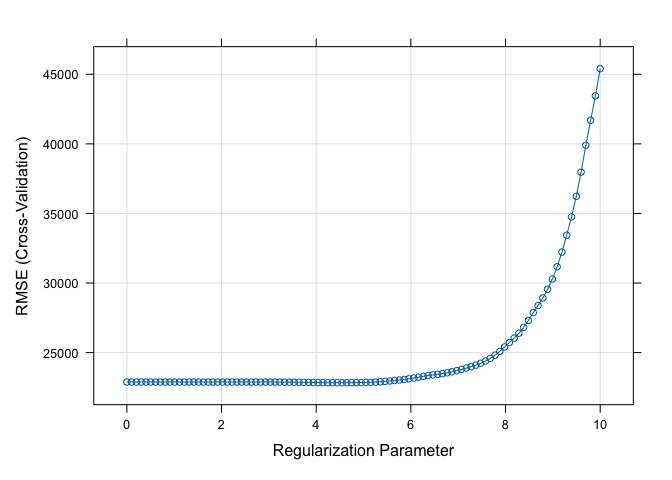
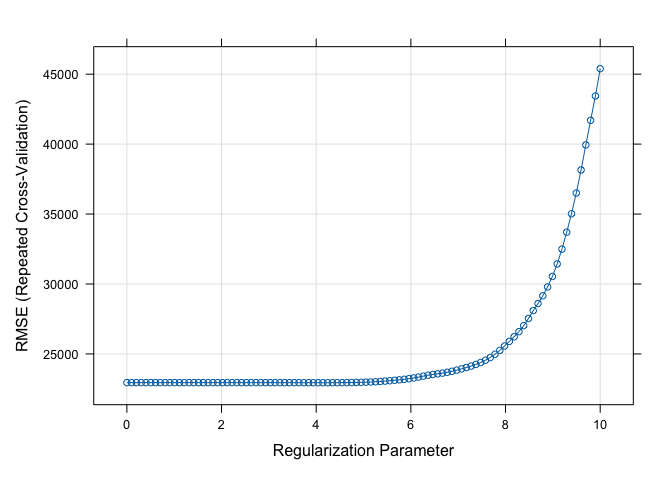
changed cv method from cv to repeated cv; partial least squares; model comparison

diff --git a/p8106_hw1.md b/p8106_hw1.md
@@ -28,8 +28,9 @@ I will use caret to fit a lasso model.
 ``` r
 # set up 10-fold CV
 ctrl1 <- trainControl(
-  method = "cv",
+  method = "repeatedcv",
   number = 10,
+  repeats = 5,
   selectionFunction = "best"
 )
 
@@ -59,8 +60,8 @@ plot(lasso.fit, xTrans = log)
 lasso.fit$bestTune
 ```
 
-    ##    alpha   lambda
-    ## 45     1 85.15256
+    ##    alpha  lambda
+    ## 42     1 62.8917
 
 ``` r
 # Obtain the test error
@@ -68,7 +69,7 @@ lasso.pred <- predict(lasso.fit, newdata = df_test)
 mean((lasso.pred - pull(df_test, "sale_price"))^2) # test error
 ```
 
-    ## [1] 438072450
+    ## [1] 440215066
 
 The selected tuning parameter is $\lambda=$ 85.15 ($\alpha=$ 1)  
 The test error is 438072450
@@ -78,8 +79,9 @@ Now, I will apply 1SE rule to obtain the most regularized model.
 ``` r
 # apply 1SE rule 
 ctrl2 <- trainControl(
-  method = "cv",
+  method = "repeatedcv",
   number = 10,
+  repeats = 5,
   selectionFunction = "oneSE"
 )
 
@@ -103,46 +105,46 @@ coef(lasso.fit_oneSE$finalModel, s = lasso.fit_oneSE$bestTune$lambda)
 
     ## 40 x 1 sparse Matrix of class "dgCMatrix"
     ##                                       s1
-    ## (Intercept)                -2.035204e+06
-    ## gr_liv_area                 5.627213e+01
-    ## first_flr_sf                1.135052e+00
+    ## (Intercept)                -3.967225e+06
+    ## gr_liv_area                 6.116858e+01
+    ## first_flr_sf                9.422068e-01
     ## second_flr_sf               .           
-    ## total_bsmt_sf               3.676775e+01
-    ## low_qual_fin_sf            -2.527561e+01
-    ## wood_deck_sf                8.229861e+00
-    ## open_porch_sf               7.616474e+00
-    ## bsmt_unf_sf                -1.929152e+01
-    ## mas_vnr_area                1.429945e+01
-    ## garage_cars                 3.083823e+03
-    ## garage_area                 1.141257e+01
-    ## year_built                  3.148994e+02
-    ## tot_rms_abv_grd            -1.095718e+03
-    ## full_bath                   .           
-    ## overall_qualAverage        -3.000728e+03
-    ## overall_qualBelow_Average  -8.923347e+03
-    ## overall_qualExcellent       8.990728e+04
-    ## overall_qualFair           -5.947217e+03
-    ## overall_qualGood            9.687912e+03
-    ## overall_qualVery_Excellent  1.596101e+05
-    ## overall_qualVery_Good       3.592166e+04
-    ## kitchen_qualFair           -4.951852e+03
-    ## kitchen_qualGood            .           
-    ## kitchen_qualTypical        -9.709739e+03
-    ## fireplaces                  6.523369e+03
-    ## fireplace_quFair            .           
-    ## fireplace_quGood            4.642434e+03
+    ## total_bsmt_sf               3.624249e+01
+    ## low_qual_fin_sf            -3.564387e+01
+    ## wood_deck_sf                1.008785e+01
+    ## open_porch_sf               1.221931e+01
+    ## bsmt_unf_sf                -2.061856e+01
+    ## mas_vnr_area                1.290135e+01
+    ## garage_cars                 3.516368e+03
+    ## garage_area                 9.683597e+00
+    ## year_built                  3.154577e+02
+    ## tot_rms_abv_grd            -2.564604e+03
+    ## full_bath                  -1.521328e+03
+    ## overall_qualAverage        -4.050185e+03
+    ## overall_qualBelow_Average  -1.091854e+04
+    ## overall_qualExcellent       8.683918e+04
+    ## overall_qualFair           -8.861656e+03
+    ## overall_qualGood            1.116048e+04
+    ## overall_qualVery_Excellent  1.555241e+05
+    ## overall_qualVery_Good       3.733021e+04
+    ## kitchen_qualFair           -1.484041e+04
+    ## kitchen_qualGood           -8.241031e+03
+    ## kitchen_qualTypical        -1.699737e+04
+    ## fireplaces                  8.310271e+03
+    ## fireplace_quFair           -4.071334e+03
+    ## fireplace_quGood            2.028562e+03
     ## fireplace_quNo_Fireplace    .           
-    ## fireplace_quPoor            .           
-    ## fireplace_quTypical         .           
-    ## exter_qualFair             -1.421715e+04
+    ## fireplace_quPoor           -1.756346e+03
+    ## fireplace_quTypical        -4.345175e+03
+    ## exter_qualFair             -1.703686e+04
     ## exter_qualGood              .           
-    ## exter_qualTypical          -5.155853e+03
-    ## lot_frontage                6.825379e+01
-    ## lot_area                    5.539988e-01
-    ## longitude                  -9.095486e+03
-    ## latitude                    1.446847e+04
-    ## misc_val                    .           
-    ## year_sold                   .
+    ## exter_qualTypical          -4.789024e+03
+    ## lot_frontage                8.725771e+01
+    ## lot_area                    5.924384e-01
+    ## longitude                  -2.295215e+04
+    ## latitude                    3.846862e+04
+    ## misc_val                    3.376656e-01
+    ## year_sold                  -1.809022e+02
 
 29 predictors are included in the model.
 
@@ -168,8 +170,8 @@ enet.fit <-
 enet.fit$bestTune
 ```
 
-    ##      alpha   lambda
-    ## 1945     1 85.15256
+    ##          alpha   lambda
+    ## 164 0.05263158 580.3529
 
 ``` r
 # plot RMSE, lambda and alpha
@@ -191,46 +193,46 @@ coef(enet.fit$finalModel, s = enet.fit$bestTune$lambda)
 
     ## 40 x 1 sparse Matrix of class "dgCMatrix"
     ##                                       s1
-    ## (Intercept)                -4.779543e+06
-    ## gr_liv_area                 6.511887e+01
-    ## first_flr_sf                8.157776e-01
-    ## second_flr_sf               .           
-    ## total_bsmt_sf               3.548040e+01
-    ## low_qual_fin_sf            -4.065028e+01
-    ## wood_deck_sf                1.151876e+01
-    ## open_porch_sf               1.519811e+01
-    ## bsmt_unf_sf                -2.088608e+01
-    ## mas_vnr_area                1.102794e+01
-    ## garage_cars                 4.047643e+03
-    ## garage_area                 8.262209e+00
-    ## year_built                  3.227762e+02
-    ## tot_rms_abv_grd            -3.552364e+03
-    ## full_bath                  -3.699584e+03
-    ## overall_qualAverage        -4.799583e+03
-    ## overall_qualBelow_Average  -1.234991e+04
-    ## overall_qualExcellent       7.623843e+04
-    ## overall_qualFair           -1.062514e+04
-    ## overall_qualGood            1.207027e+04
-    ## overall_qualVery_Excellent  1.370861e+05
-    ## overall_qualVery_Good       3.785078e+04
-    ## kitchen_qualFair           -2.430114e+04
-    ## kitchen_qualGood           -1.672052e+04
-    ## kitchen_qualTypical        -2.486961e+04
-    ## fireplaces                  1.029185e+04
-    ## fireplace_quFair           -7.613692e+03
-    ## fireplace_quGood            .           
-    ## fireplace_quNo_Fireplace    1.035629e+03
-    ## fireplace_quPoor           -5.590922e+03
-    ## fireplace_quTypical        -7.007746e+03
-    ## exter_qualFair             -3.206346e+04
-    ## exter_qualGood             -1.390479e+04
-    ## exter_qualTypical          -1.835565e+04
-    ## lot_frontage                9.883182e+01
-    ## lot_area                    6.041112e-01
-    ## longitude                  -3.239683e+04
-    ## latitude                    5.394703e+04
-    ## misc_val                    8.002273e-01
-    ## year_sold                  -5.356063e+02
+    ## (Intercept)                -5.113316e+06
+    ## gr_liv_area                 3.888606e+01
+    ## first_flr_sf                2.659339e+01
+    ## second_flr_sf               2.534167e+01
+    ## total_bsmt_sf               3.495196e+01
+    ## low_qual_fin_sf            -1.596905e+01
+    ## wood_deck_sf                1.231770e+01
+    ## open_porch_sf               1.686371e+01
+    ## bsmt_unf_sf                -2.072999e+01
+    ## mas_vnr_area                1.165591e+01
+    ## garage_cars                 4.046669e+03
+    ## garage_area                 8.894532e+00
+    ## year_built                  3.191010e+02
+    ## tot_rms_abv_grd            -3.439303e+03
+    ## full_bath                  -3.693423e+03
+    ## overall_qualAverage        -5.113423e+03
+    ## overall_qualBelow_Average  -1.269944e+04
+    ## overall_qualExcellent       7.586249e+04
+    ## overall_qualFair           -1.145724e+04
+    ## overall_qualGood            1.197943e+04
+    ## overall_qualVery_Excellent  1.364598e+05
+    ## overall_qualVery_Good       3.765074e+04
+    ## kitchen_qualFair           -2.367794e+04
+    ## kitchen_qualGood           -1.610305e+04
+    ## kitchen_qualTypical        -2.415426e+04
+    ## fireplaces                  1.080415e+04
+    ## fireplace_quFair           -7.895400e+03
+    ## fireplace_quGood            1.050416e+02
+    ## fireplace_quNo_Fireplace    1.745086e+03
+    ## fireplace_quPoor           -5.840965e+03
+    ## fireplace_quTypical        -7.003111e+03
+    ## exter_qualFair             -3.285657e+04
+    ## exter_qualGood             -1.445844e+04
+    ## exter_qualTypical          -1.905526e+04
+    ## lot_frontage                1.001013e+02
+    ## lot_area                    6.031323e-01
+    ## longitude                  -3.514521e+04
+    ## latitude                    5.771438e+04
+    ## misc_val                    8.665642e-01
+    ## year_sold                  -5.730607e+02
 
 ``` r
 # obtain predicted values
@@ -240,7 +242,7 @@ enet.pred <- predict(enet.fit, newdata = df_test)
 mean((enet.pred - pull(df_test, "sale_price"))^2)
 ```
 
-    ## [1] 438072450
+    ## [1] 438502352
 
 The selected tuning parameter is $\lambda=$ 85.15 and $\alpha=$ 1 The
 test error is 438072450
@@ -268,7 +270,7 @@ enet.fit_oneSE$bestTune
 ```
 
     ##    alpha   lambda
-    ## 93     0 10860.95
+    ## 87     0 5924.601
 
 Now, the optimal tuning parameters are $\lambda=$ 10860.95 and $\alpha=$
 0
@@ -277,13 +279,6 @@ Now, the optimal tuning parameters are $\lambda=$ 10860.95 and $\alpha=$
 
 ``` r
 # using caret
-# set cv
-ctrl3 <- trainControl(
-  method = "repeatedcv",
-  number = 10,
-  repeats = 5,
-  selectionFunction = "best"
-)
 
 # prepare x and y
 # training 
@@ -301,7 +296,7 @@ pls.fit <- train(
   x, y,
   method = "pls",
   tuneGrid = data.frame(ncomp = 8:38),
-  trControl = ctrl3,
+  trControl = ctrl1,
   preProcess = c("center", "scale")
 )
 
@@ -345,5 +340,64 @@ training data.
 The test error is 451276530
 
 ## (d) The best model for response prediction
+
+``` r
+# compare models
+
+# resampling 
+resamp <- resamples(list(
+  lasso = lasso.fit,
+  lasso_oneSE = lasso.fit_oneSE,
+  elastic_net = enet.fit,
+  elastic_net_oneSE = enet.fit_oneSE,
+  pls = pls.fit
+))
+
+summary(resamp)
+```
+
+    ## 
+    ## Call:
+    ## summary.resamples(object = resamp)
+    ## 
+    ## Models: lasso, lasso_oneSE, elastic_net, elastic_net_oneSE, pls 
+    ## Number of resamples: 50 
+    ## 
+    ## MAE 
+    ##                       Min.  1st Qu.   Median     Mean  3rd Qu.     Max. NA's
+    ## lasso             13538.32 15959.78 16652.47 16657.11 17452.75 19127.21    0
+    ## lasso_oneSE       13606.88 16028.59 16825.09 16650.35 17418.16 19208.65    0
+    ## elastic_net       13491.26 15931.74 16567.00 16626.04 17391.32 19166.57    0
+    ## elastic_net_oneSE 13198.39 16034.65 16689.20 16607.47 17394.40 19493.07    0
+    ## pls               14022.76 15696.11 16734.02 16686.61 17486.46 20931.03    0
+    ## 
+    ## RMSE 
+    ##                       Min.  1st Qu.   Median     Mean  3rd Qu.     Max. NA's
+    ## lasso             17877.16 21592.59 22994.31 22941.14 24142.02 29904.32    0
+    ## lasso_oneSE       18237.15 21713.36 23427.26 23228.85 24447.39 30363.08    0
+    ## elastic_net       17874.28 21565.57 23019.54 22936.41 24167.06 29954.34    0
+    ## elastic_net_oneSE 18291.48 21318.48 23316.47 23232.16 24593.61 31328.11    0
+    ## pls               19625.67 21393.49 22481.30 22887.00 24395.86 28462.45    0
+    ## 
+    ## Rsquared 
+    ##                        Min.   1st Qu.    Median      Mean   3rd Qu.      Max.
+    ## lasso             0.8605656 0.8924796 0.9073985 0.9031727 0.9149599 0.9394451
+    ## lasso_oneSE       0.8593829 0.8916811 0.9038715 0.9010143 0.9118504 0.9365696
+    ## elastic_net       0.8603663 0.8931082 0.9069821 0.9032425 0.9146348 0.9393994
+    ## elastic_net_oneSE 0.8553709 0.8942059 0.9035794 0.9013262 0.9123490 0.9362294
+    ## pls               0.8553670 0.8909901 0.9036199 0.9037282 0.9180389 0.9399278
+    ##                   NA's
+    ## lasso                0
+    ## lasso_oneSE          0
+    ## elastic_net          0
+    ## elastic_net_oneSE    0
+    ## pls                  0
+
+``` r
+# visualize RMSEs 
+bwplot(resamp, metric = "RMSE")
+```
+
+![](p8106_hw1_files/figure-gfm/unnamed-chunk-7-1.png)<!-- -->
 
 ## (e) Alternative meta-engine
